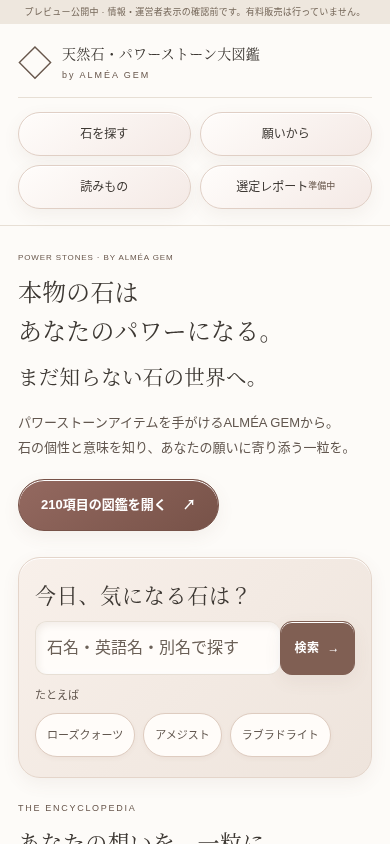
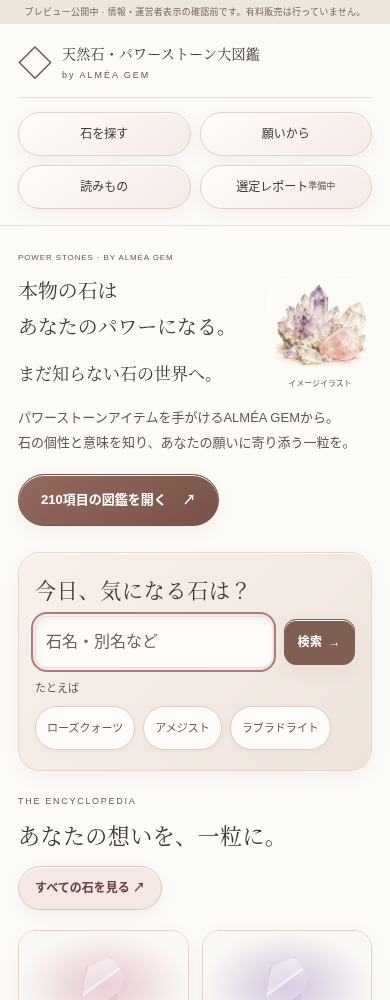
style: add watercolor stone hero and separate search controls

diff --git a/src/tactile.css b/src/tactile.css
@@ -371,3 +371,108 @@
     transform: none !important;
   }
 }
+
+.hero-stone-art {
+  display: block;
+  min-height: 0;
+  background: none;
+  max-width: 340px;
+  justify-self: center;
+}
+.hero-stone-art img {
+  width: 100%;
+  height: auto;
+  border-radius: 24px;
+}
+.hero-stone-art figcaption {
+  text-align: center;
+  font-size: 10px;
+  color: #6b6057;
+}
+.hero-copy .hero-line + .hero-line {
+  font-size: 0.72em;
+  margin-top: 14px;
+}
+.home-search form {
+  display: flex;
+  gap: 12px;
+  align-items: center;
+  min-width: 0;
+}
+.home-search form input {
+  flex: 1 1 0;
+  min-width: 0;
+  width: 0;
+}
+.home-search form .button {
+  flex: 0 0 auto;
+  padding: 12px 18px;
+}
+.home-search input:focus-visible {
+  outline-offset: 2px;
+}
+@media (max-width: 640px) {
+  .hero-copy h1 {
+    font-size: clamp(19px, 5.1vw, 23px);
+    letter-spacing: 0;
+    line-height: 1.8;
+  }
+  .hero-copy .hero-line:first-child {
+    width: calc(100% - 108px);
+  }
+  .hero-copy .hero-line + .hero-line {
+    font-size: 17px;
+    margin-top: 14px;
+  }
+  .hero-stone-art {
+    display: block;
+    position: absolute;
+    top: 48px;
+    right: 0;
+    width: 104px;
+    min-height: 0;
+    opacity: 1;
+    overflow: visible;
+    z-index: 1;
+  }
+  .hero-stone-art img {
+    border-radius: 12px;
+  }
+  .hero-stone-art figcaption {
+    font-size: 8px;
+    line-height: 1.5;
+  }
+  .home-search form {
+    gap: 12px;
+  }
+  .home-search form .button {
+    padding: 10px 13px;
+    min-height: 46px;
+    gap: 6px;
+    font-size: 12px;
+  }
+  .home-search form input {
+    min-height: 46px;
+    padding: 10px;
+  }
+}
+@media (max-width: 350px) {
+  .hero-copy .hero-line:first-child {
+    width: calc(100% - 88px);
+  }
+  .hero-stone-art {
+    width: 84px;
+  }
+}
+
+@media (max-width: 350px) {
+  .hero-copy h1 {
+    font-size: 18px;
+  }
+  .hero-copy .hero-line:first-child {
+    width: calc(100% - 78px);
+  }
+  .hero-stone-art {
+    width: 74px;
+  }
+}

diff --git a/docs/hero-illustration.md b/docs/hero-illustration.md
@@ -1,0 +1,7 @@
+# トップの装飾イラスト
+
+`public/brand/stone-watercolor.webp` は2026年10月27日に生成した水彩風の装飾イラストです。実際の商品・保有在庫・鉱物標本の写真ではありません。外部サイトの写真や書籍画像は使用していません。
+
+トップだけに表示し、図鑑210項目の実物写真や権利承認済み画像とは関連付けません。画面には「イメージイラスト」、代替テキストにも装飾イラストと表示します。
+
+640×640px、WebP約48KB。幅・高さを指定してレイアウト変動を抑え、トップの1画像だけを優先読み込みします。JavaScriptや外部サービスへの実行時アクセスは追加していません。
